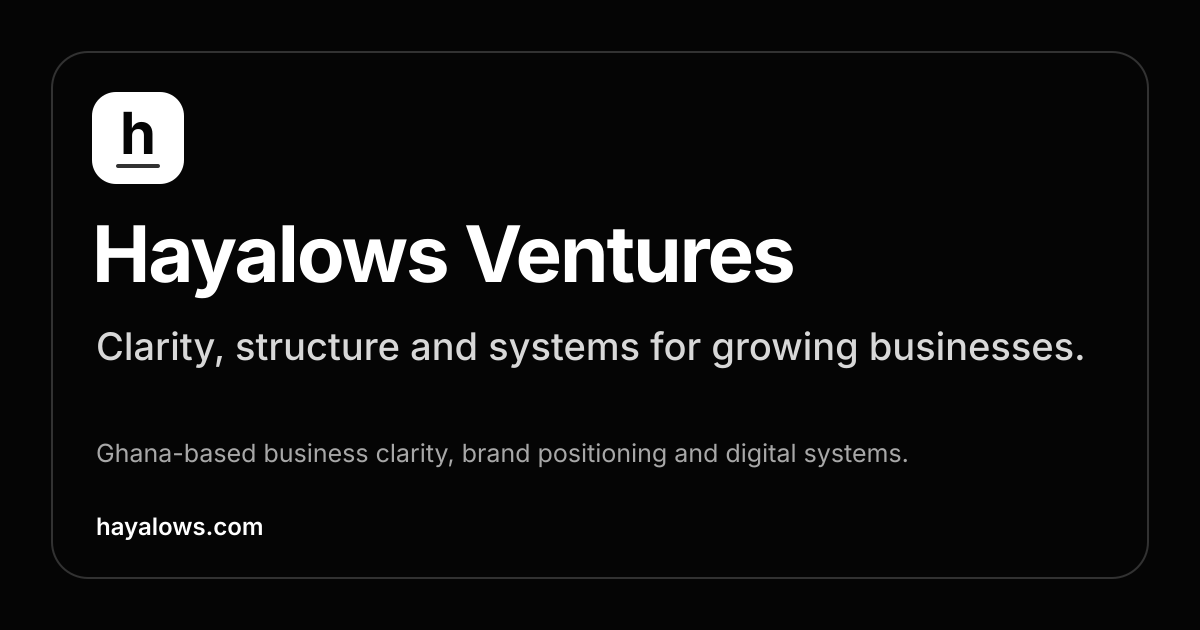
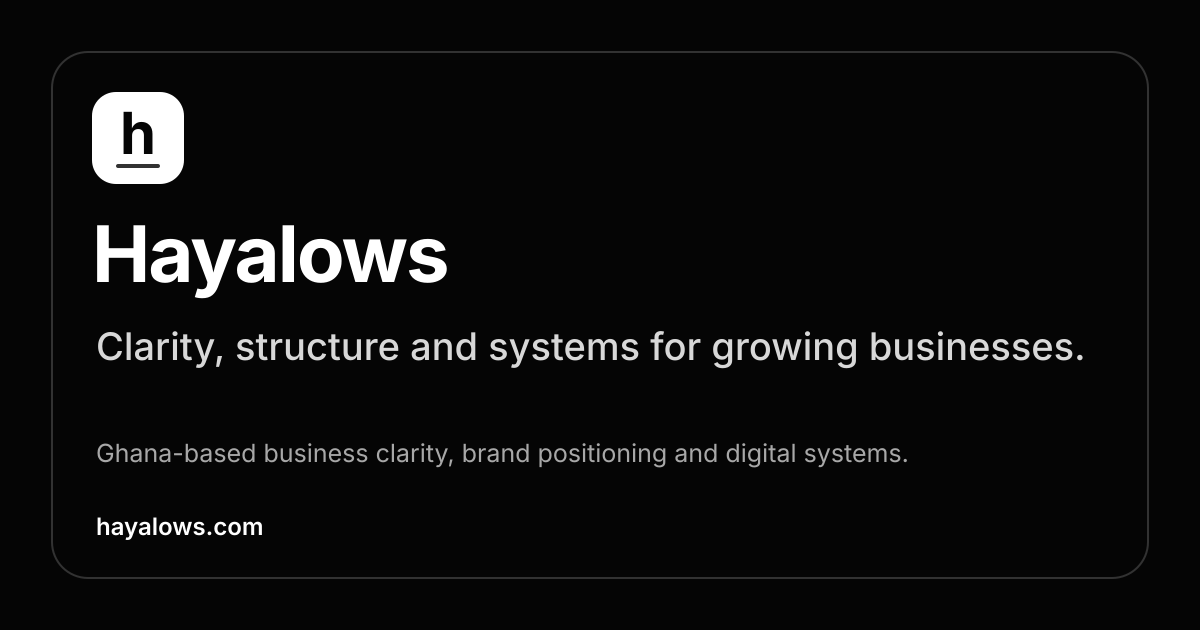
Refine Hayalows brand and animate status notice

Changed region(s): [[0.37, 0.3619, 0.6783, 0.4524]]

diff --git a/index.html b/index.html
@@ -3,8 +3,8 @@
   <head>
     <meta charset="utf-8">
     <meta name="viewport" content="width=device-width, initial-scale=1">
-    <title>Hayalows Ventures | Clarity, structure and systems</title>
-    <meta name="description" content="Hayalows Ventures helps Ghanaian SMEs, founders and young professionals build clarity, structure and practical systems for growth.">
+    <title>Hayalows | Clarity, structure and systems</title>
+    <meta name="description" content="Hayalows helps Ghanaian SMEs, founders and young professionals build clarity, structure and practical systems for growth.">
     <meta name="robots" content="index, follow, max-image-preview:large">
     <meta name="theme-color" content="#111310">
 
@@ -16,31 +16,32 @@
     <link rel="apple-touch-icon" href="/assets/apple-touch-icon.png" sizes="180x180">
     <link rel="manifest" href="/site.webmanifest">
 
-    <meta property="og:title" content="Hayalows Ventures | Clarity, structure and systems">
+    <meta property="og:title" content="Hayalows | Clarity, structure and systems">
     <meta property="og:description" content="Ghana-based support for business clarity, brand positioning and practical digital systems.">
     <meta property="og:type" content="website">
     <meta property="og:url" content="https://hayalows.com/">
-    <meta property="og:site_name" content="Hayalows Ventures">
+    <meta property="og:site_name" content="Hayalows">
     <meta property="og:locale" content="en_GH">
     <meta property="og:image" content="https://hayalows.com/assets/hayalows-og-image.png">
     <meta property="og:image:secure_url" content="https://hayalows.com/assets/hayalows-og-image.png">
     <meta property="og:image:type" content="image/png">
     <meta property="og:image:width" content="1200">
     <meta property="og:image:height" content="630">
-    <meta property="og:image:alt" content="Hayalows Ventures - clarity, structure and systems for growing businesses">
+    <meta property="og:image:alt" content="Hayalows - clarity, structure and systems for growing businesses">
 
     <meta name="twitter:card" content="summary_large_image">
-    <meta name="twitter:title" content="Hayalows Ventures | Clarity, structure and systems">
+    <meta name="twitter:title" content="Hayalows | Clarity, structure and systems">
     <meta name="twitter:description" content="Ghana-based support for business clarity, brand positioning and practical digital systems.">
     <meta name="twitter:image" content="https://hayalows.com/assets/hayalows-og-image.png">
-    <meta name="twitter:image:alt" content="Hayalows Ventures - clarity, structure and systems for growing businesses">
+    <meta name="twitter:image:alt" content="Hayalows - clarity, structure and systems for growing businesses">
 
     <script type="application/ld+json">
       {
         "@context": "https://schema.org",
         "@type": "Organization",
         "@id": "https://hayalows.com/#organization",
-        "name": "Hayalows Ventures",
+        "name": "Hayalows",
+        "legalName": "Hayalows Ventures",
         "url": "https://hayalows.com/",
         "description": "A Ghana-based business supporting SMEs, founders and young professionals with business clarity, brand positioning and practical digital systems.",
         "email": "[email redacted]",
@@ -66,8 +67,8 @@
         "@type": "WebSite",
         "@id": "https://hayalows.com/#website",
         "url": "https://hayalows.com/",
-        "name": "Hayalows Ventures",
-        "alternateName": "Hayalows",
+        "name": "Hayalows",
+        "alternateName": "Hayalows Ventures",
         "description": "Clarity, structure and systems for growing businesses.",
         "inLanguage": "en",
         "publisher": {
@@ -84,9 +85,9 @@
 
     <header class="site-header">
       <div class="container header-inner">
-        <a class="brand" href="#top" aria-label="Hayalows Ventures home">
-          <span class="brand-mark" aria-hidden="true">HV</span>
-          <span>Hayalows Ventures</span>
+        <a class="brand" href="#top" aria-label="Hayalows home">
+          <span class="brand-mark" aria-hidden="true">h</span>
+          <span>Hayalows</span>
         </a>
 
         <button class="menu-toggle" type="button" aria-expanded="false" aria-controls="site-navigation">
@@ -111,7 +112,7 @@
             <p class="eyebrow">Ghana · Business support and advisory</p>
             <h1>Clarity, structure and systems for growing businesses.</h1>
             <p class="hero-intro">
-              Hayalows Ventures is a Ghana-based business helping SMEs, founders and young professionals
+              Hayalows is a Ghana-based business helping SMEs, founders and young professionals
               organise how they work, handle money, communicate and grow with more discipline.
             </p>
             <div class="button-row">
@@ -124,7 +125,7 @@
             </p>
           </div>
 
-          <div class="hero-statement" aria-label="Hayalows Ventures principles">
+          <div class="hero-statement" aria-label="Hayalows principles">
             <span class="statement-number">01</span>
             <p>Clear thinking.</p>
             <p>Useful structure.</p>
@@ -140,7 +141,7 @@
           <div>
             <h2>A proper website is being built.</h2>
             <p class="section-lead">
-              This page is the current official home of Hayalows Ventures while the full website is being
+              This page is the current official home of Hayalows while the full website is being
               developed. The business is active, registered and focused on building practical systems for
               business clarity, brand structure and long-term growth.
             </p>
@@ -193,7 +194,7 @@
           <div class="founder-copy">
             <p class="section-label">Founder</p>
             <h2>Papa Kojo Mensah</h2>
-            <p class="founder-role">Founder, Hayalows Ventures</p>
+            <p class="founder-role">Founder, Hayalows</p>
             <p>
               Papa Kojo Mensah works across brand identity, business systems, social media and practical
               financial structure. His work focuses on helping small businesses move from scattered
@@ -213,7 +214,7 @@
           <div class="project-list">
             <article class="project-item">
               <span class="project-index">01</span>
-              <h3>Hayalows Ventures</h3>
+              <h3>Hayalows</h3>
               <p>Main business platform for clarity, systems, brand and advisory work.</p>
               <span class="project-status">Active</span>
             </article>

diff --git a/styles.css b/styles.css
@@ -154,8 +154,8 @@ h3 {
   place-items: center;
   color: var(--color-white);
   background: var(--color-ink);
-  font-size: 0.69rem;
-  letter-spacing: 0.08em;
+  font-size: 1rem;
+  letter-spacing: 0;
 }
 
 .site-nav {
@@ -293,7 +293,10 @@ h3 {
 }
 
 .development-note {
+  position: relative;
   display: flex;
+  width: max-content;
+  max-width: 100%;
   align-items: center;
   gap: 0.6rem;
   margin: var(--space-3) 0 0;
@@ -301,11 +304,35 @@ h3 {
   font-size: 0.82rem;
 }
 
+.development-note::after {
+  position: absolute;
+  inset: -0.55rem -0.7rem;
+  border: 1px solid rgba(93, 111, 81, 0.42);
+  border-radius: var(--radius);
+  content: "";
+  pointer-events: none;
+  animation: development-notice-pulse 2.8s ease-in-out infinite;
+}
+
 .development-note span {
+  flex: 0 0 auto;
   width: 7px;
   height: 7px;
   border-radius: 50%;
   background: var(--color-accent);
+}
+
+@keyframes development-notice-pulse {
+  0%,
+  100% {
+    border-color: rgba(93, 111, 81, 0.25);
+    box-shadow: 0 0 0 0 rgba(93, 111, 81, 0);
+  }
+
+  50% {
+    border-color: rgba(93, 111, 81, 0.62);
+    box-shadow: 0 0 0 3px rgba(93, 111, 81, 0.1);
+  }
 }
 
 .hero-statement {
@@ -779,6 +806,8 @@ img.founder-photo {
   *,
   *::before,
   *::after {
+    animation-duration: 0.01ms !important;
+    animation-iteration-count: 1 !important;
     scroll-behavior: auto !important;
     transition-duration: 0.01ms !important;
   }